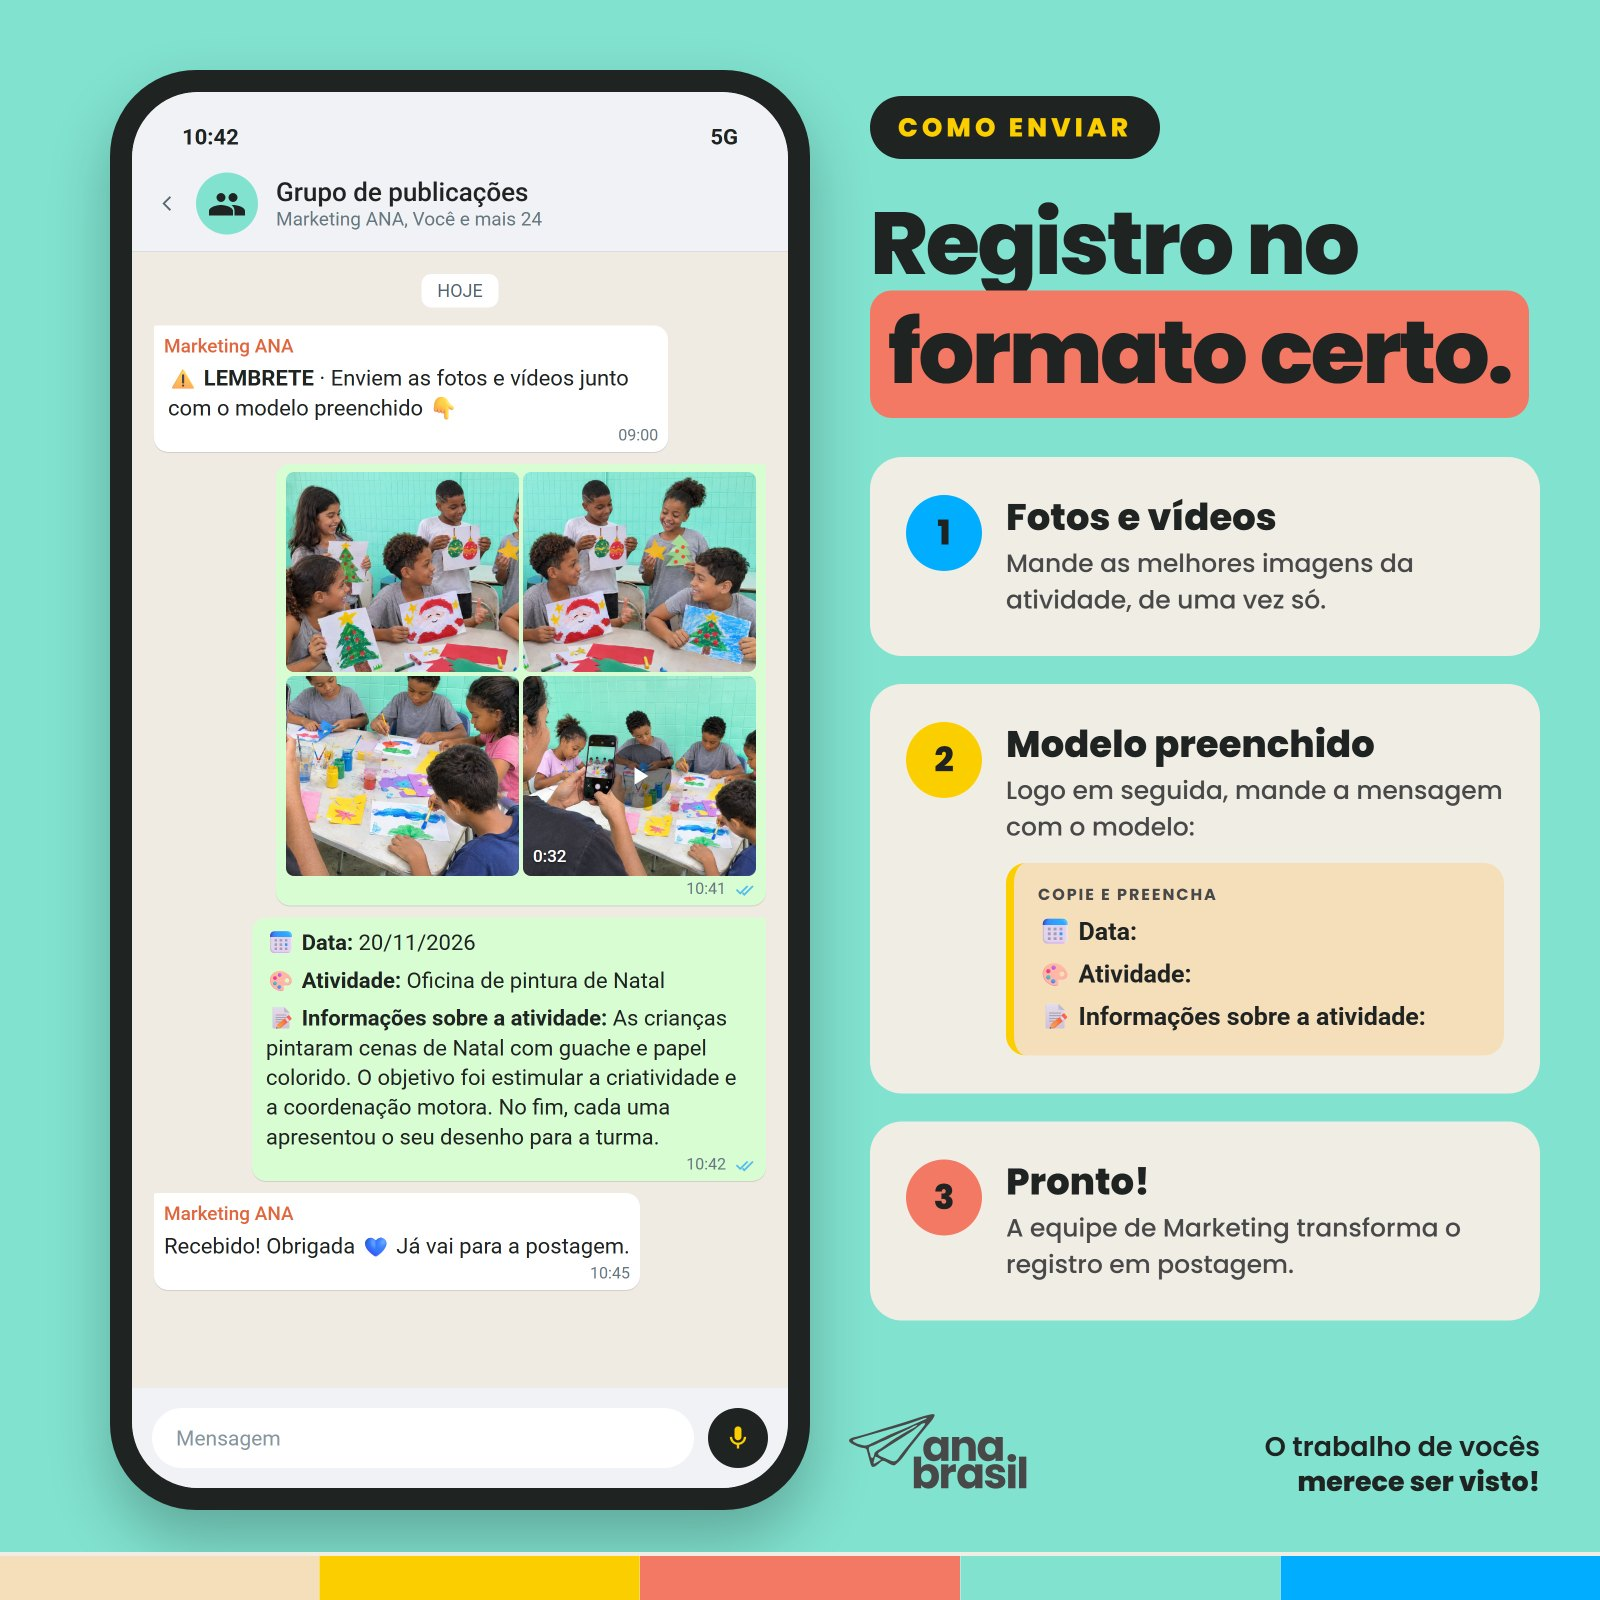
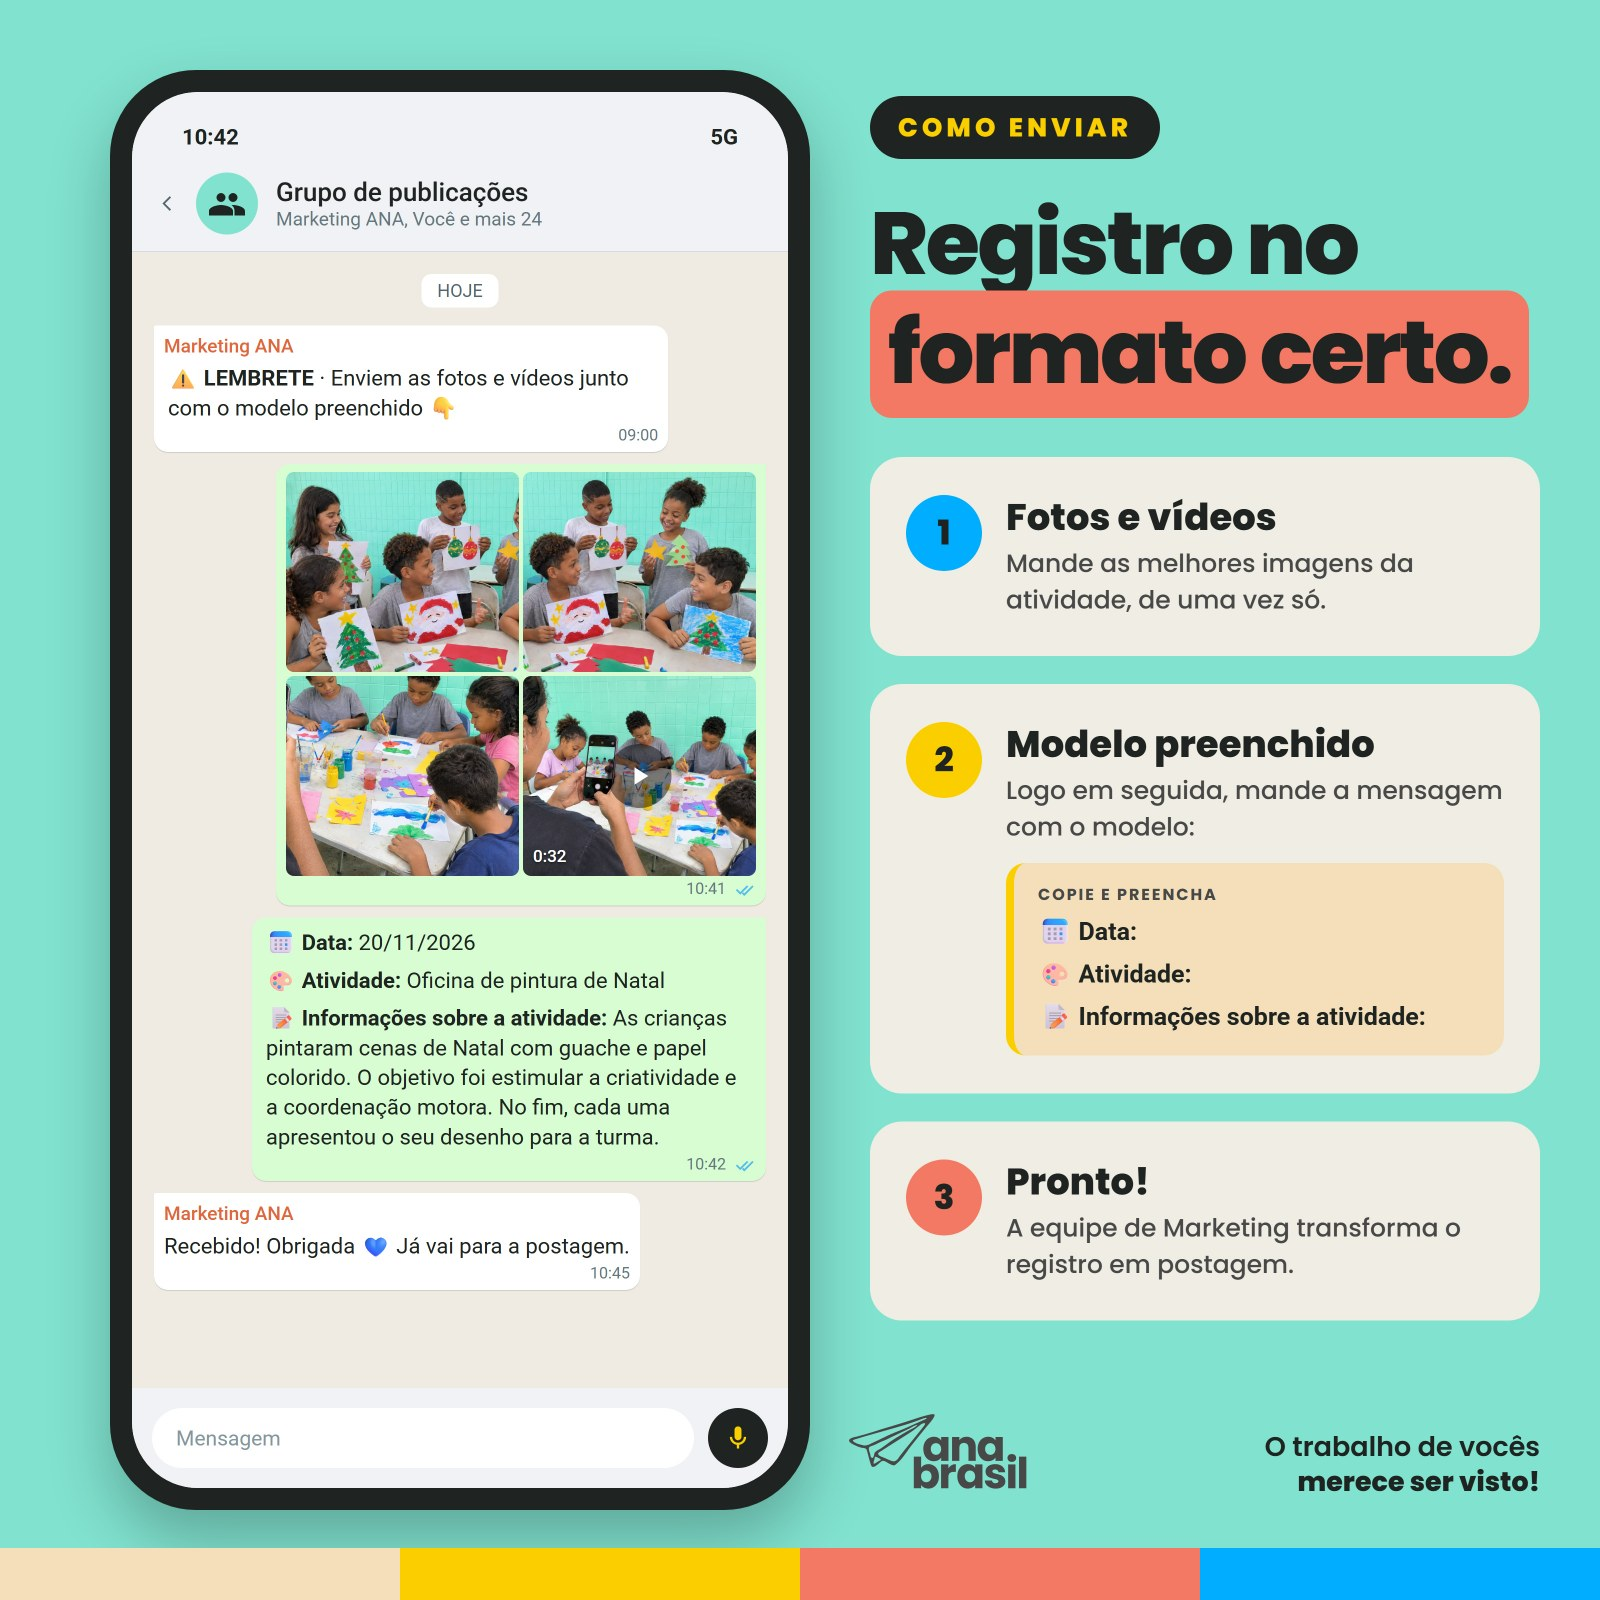
Lembrete: artes quadradas (1:1) e rodapé sem a cor do fundo
A arte do lembrete passa de 16:9 para 1600x1600, refeita em HTML com as
mesmas cores de cada variante (fonte em modelos/lembrete-registros). No
rodapé das 10 artes ficam só as 4 cores que não são a do fundo, rentes à
borda e sem a linha clara. A aba mostra as artes em quadrado.

Changed region(s): [[0.0, 0.9688, 1.0, 1.0]]

diff --git a/modelos/lembrete-registros/registros.html b/modelos/lembrete-registros/registros.html
@@ -1,0 +1,73 @@
+<!doctype html>
+<html lang="pt-BR"><head><meta charset="utf-8">
+<link rel="preconnect" href="https://fonts.googleapis.com"><link rel="preconnect" href="https://fonts.gstatic.com" crossorigin>
+<link href="https://fonts.googleapis.com/css2?family=Poppins:wght@500;600;700;800&display=block" rel="stylesheet">
+<link href="https://fonts.googleapis.com/css2?family=Material+Symbols+Sharp:opsz,wght,FILL,GRAD@48,500,1,0&display=block" rel="stylesheet">
+<style>
+/* "Lembrete - Registros das unidades" em 1:1 (1600x1600), refeito das artes 16:9 dele com as mesmas cores por variante. */
+:root { --creme: #f0ede4; --amarelo: #fbce00; --coral: #f37964; --verde: #81e2cf; --azul: #01adff; --areia: #f5dfba; --escuro: #1f2322; }
+* { box-sizing: border-box; margin: 0; }
+html, body { width: 1600px; height: 1600px; overflow: hidden; }
+body { background: var(--fundo); font-family: Poppins, sans-serif; color: var(--tinta); position: relative; }
+.ms { font-family: 'Material Symbols Sharp'; font-weight: 500; font-style: normal; line-height: 1; letter-spacing: 0; text-transform: none; white-space: nowrap; font-feature-settings: 'liga'; -webkit-font-smoothing: antialiased; }
+
+/* Formas do canto (as mesmas da arte 16:9, 1,2x). */
+.deco { position: absolute; right: 0; top: 0; width: 416px; height: 400px; }
+.a { position: absolute; left: 0; top: 0; width: 192px; height: 192px; background: var(--decoA); border-bottom-left-radius: 192px; }
+.b { position: absolute; left: 192px; top: 0; width: 224px; height: 192px; background: var(--decoB); overflow: hidden; }
+.b::after { content: ''; position: absolute; right: -160px; top: -160px; width: 320px; height: 320px; border-radius: 50%; background: var(--decoC); }
+.d { position: absolute; right: 0; top: 192px; width: 176px; height: 176px; background: var(--decoD); border-top-left-radius: 176px; }
+
+.bolinha { position: absolute; right: 250px; top: 233px; width: 74px; height: 74px; border-radius: 50%; background: var(--ponto); }
+
+.logo { position: absolute; left: 86px; top: 66px; width: 300px; height: auto; }
+
+.conteudo { position: absolute; left: 128px; right: 96px; top: 444px; display: flex; flex-direction: column; align-items: flex-start; }
+.pilula { display: inline-flex; align-items: center; gap: 18px; height: 92px; padding: 0 44px 0 34px; border-radius: 46px; background: var(--pilula); color: var(--textoPilula); font-weight: 800; font-size: 40px; letter-spacing: .22em; }
+.pilula .ms { font-size: 52px; }
+h1 { margin-top: 26px; font-weight: 800; font-size: 196px; line-height: 1.0; letter-spacing: -.035em; color: var(--tinta); }
+h1 span { display: block; }
+.caixa { display: inline-block; margin-left: 4px; padding: 0 30px 6px 30px; border-radius: 30px; background: var(--caixa); color: var(--textoCaixa); }
+.linha3 { margin-top: 14px; }
+.chips { display: flex; gap: 24px; margin-top: 64px; }
+.chip { display: inline-flex; align-items: center; gap: 20px; height: 108px; padding: 0 40px 0 12px; border-radius: 54px; font-weight: 700; font-size: 40px; color: var(--escuro); }
+.chip i { display: grid; place-items: center; width: 84px; height: 84px; border-radius: 50%; color: var(--escuro); font-size: 46px; }
+.legenda { margin-top: 48px; font-weight: 500; font-size: 38px; color: var(--tinta); }
+.legenda b { font-weight: 800; }
+
+/* Rodapé: as 4 cores que não são o fundo, rentes à borda. */
+.rodape { position: absolute; left: 0; right: 0; bottom: 0; height: 52px; display: flex; }
+.rodape div { flex: 1; }
+</style></head>
+<body>
+<div class="deco"><div class="a"></div><div class="b"></div><div class="d"></div></div>
+<div class="bolinha"></div>
+<img class="logo" id="logo" alt="">
+<div class="conteudo">
+  <div class="pilula"><span class="ms">warning</span>LEMBRETE</div>
+  <h1><span>Enviem os</span><span>registros das</span><span class="linha3"><span class="caixa">unidades.</span></span></h1>
+  <div class="chips">
+    <div class="chip" style="background:var(--chipFotos)"><i class="ms" style="background:var(--circulo)">photo_camera</i>Fotos</div>
+    <div class="chip" style="background:var(--chipVideos)"><i class="ms" style="background:var(--circuloVideos)">videocam</i>Vídeos</div>
+    <div class="chip" style="background:var(--chipInfo)"><i class="ms" style="background:var(--circuloInfo)">chat</i>Informações</div>
+  </div>
+  <p class="legenda">Aqui no grupo de publicações. <b>Contamos com vocês!</b></p>
+</div>
+<div class="rodape" id="rodape"></div>
+<script>
+const C = { creme: '#f0ede4', amarelo: '#fbce00', coral: '#f37964', verde: '#81e2cf', azul: '#01adff', areia: '#f5dfba', escuro: '#1f2322', branco: '#ffffff' };
+// Cores lidas das artes originais de cada variante.
+const V = {
+  azul:    { fundo: C.azul, tinta: C.branco, pilula: C.escuro, textoPilula: C.amarelo, caixa: C.amarelo, textoCaixa: C.escuro, chipFotos: C.verde, chipVideos: C.creme, chipInfo: C.coral, circulo: C.creme, circuloVideos: C.azul, circuloInfo: C.creme, ponto: C.amarelo, decoA: C.creme, decoB: C.amarelo, decoC: C.coral, decoD: C.verde },
+  amarelo: { fundo: C.amarelo, tinta: C.escuro, pilula: C.coral, textoPilula: C.escuro, caixa: C.escuro, textoCaixa: C.amarelo, chipFotos: C.verde, chipVideos: C.azul, chipInfo: C.coral, circulo: C.creme, circuloVideos: C.creme, circuloInfo: C.creme, ponto: C.creme, decoA: C.creme, decoB: C.azul, decoC: C.coral, decoD: C.verde },
+  coral:   { fundo: C.coral, tinta: C.branco, pilula: C.escuro, textoPilula: C.amarelo, caixa: C.amarelo, textoCaixa: C.escuro, chipFotos: C.verde, chipVideos: C.creme, chipInfo: C.azul, circulo: C.creme, circuloVideos: C.azul, circuloInfo: C.creme, ponto: C.amarelo, decoA: C.creme, decoB: C.amarelo, decoC: C.azul, decoD: C.verde },
+  verde:   { fundo: C.verde, tinta: C.escuro, pilula: C.escuro, textoPilula: C.amarelo, caixa: C.coral, textoCaixa: C.escuro, chipFotos: C.creme, chipVideos: C.azul, chipInfo: C.amarelo, circulo: C.verde, circuloVideos: C.creme, circuloInfo: C.creme, ponto: C.amarelo, decoA: C.creme, decoB: C.amarelo, decoC: C.coral, decoD: C.azul },
+  areia:   { fundo: C.areia, tinta: C.escuro, pilula: C.escuro, textoPilula: C.amarelo, caixa: C.azul, textoCaixa: C.escuro, chipFotos: C.verde, chipVideos: C.coral, chipInfo: C.amarelo, circulo: C.creme, circuloVideos: C.creme, circuloInfo: C.creme, ponto: C.coral, decoA: C.azul, decoB: C.amarelo, decoC: C.coral, decoD: C.verde },
+};
+const nome = new URLSearchParams(location.search).get('v') || 'azul';
+for (const [k, v] of Object.entries(V[nome])) document.documentElement.style.setProperty('--' + k, v);
+document.getElementById('logo').src = `logos/logo-${nome}.png`;
+// Rodapé: a ordem de sempre (areia, amarelo, coral, verde, azul), sem a cor do fundo.
+document.getElementById('rodape').innerHTML = ['areia', 'amarelo', 'coral', 'verde', 'azul'].filter(c => c !== nome).map(c => `<div style="background:${C[c]}"></div>`).join('');
+</script>
+</body></html>

diff --git a/src/components/lembretes/LembretesDoWhatsApp.tsx b/src/components/lembretes/LembretesDoWhatsApp.tsx
@@ -202,7 +202,7 @@ export function LembretesDoWhatsApp() {
             <div className="grid grid-cols-5 gap-2">
               {CORES.map((c, i) => (
                 <div key={c} className={cn('overflow-hidden rounded-[10px] border-2', c === corDeHoje ? 'border-foreground' : 'border-transparent')}>
-                  <img src={`${ARTES}/${arteDoLembrete(c)}`} alt={`Arte ${NOME_DA_COR[c]}`} className="aspect-[16/9] w-full object-cover" loading="lazy" />
+                  <img src={`${ARTES}/${arteDoLembrete(c)}`} alt={`Arte ${NOME_DA_COR[c]}`} className="aspect-square w-full object-cover" loading="lazy" />
                   <p className="flex items-center gap-1 px-1.5 py-1 text-[11.5px]"><span className="h-2.5 w-2.5 shrink-0 rounded-full" style={{ background: HEX_DA_COR[c] }} />{NOMES_DOS_DIAS[i + 1]}</p>
                 </div>
               ))}
